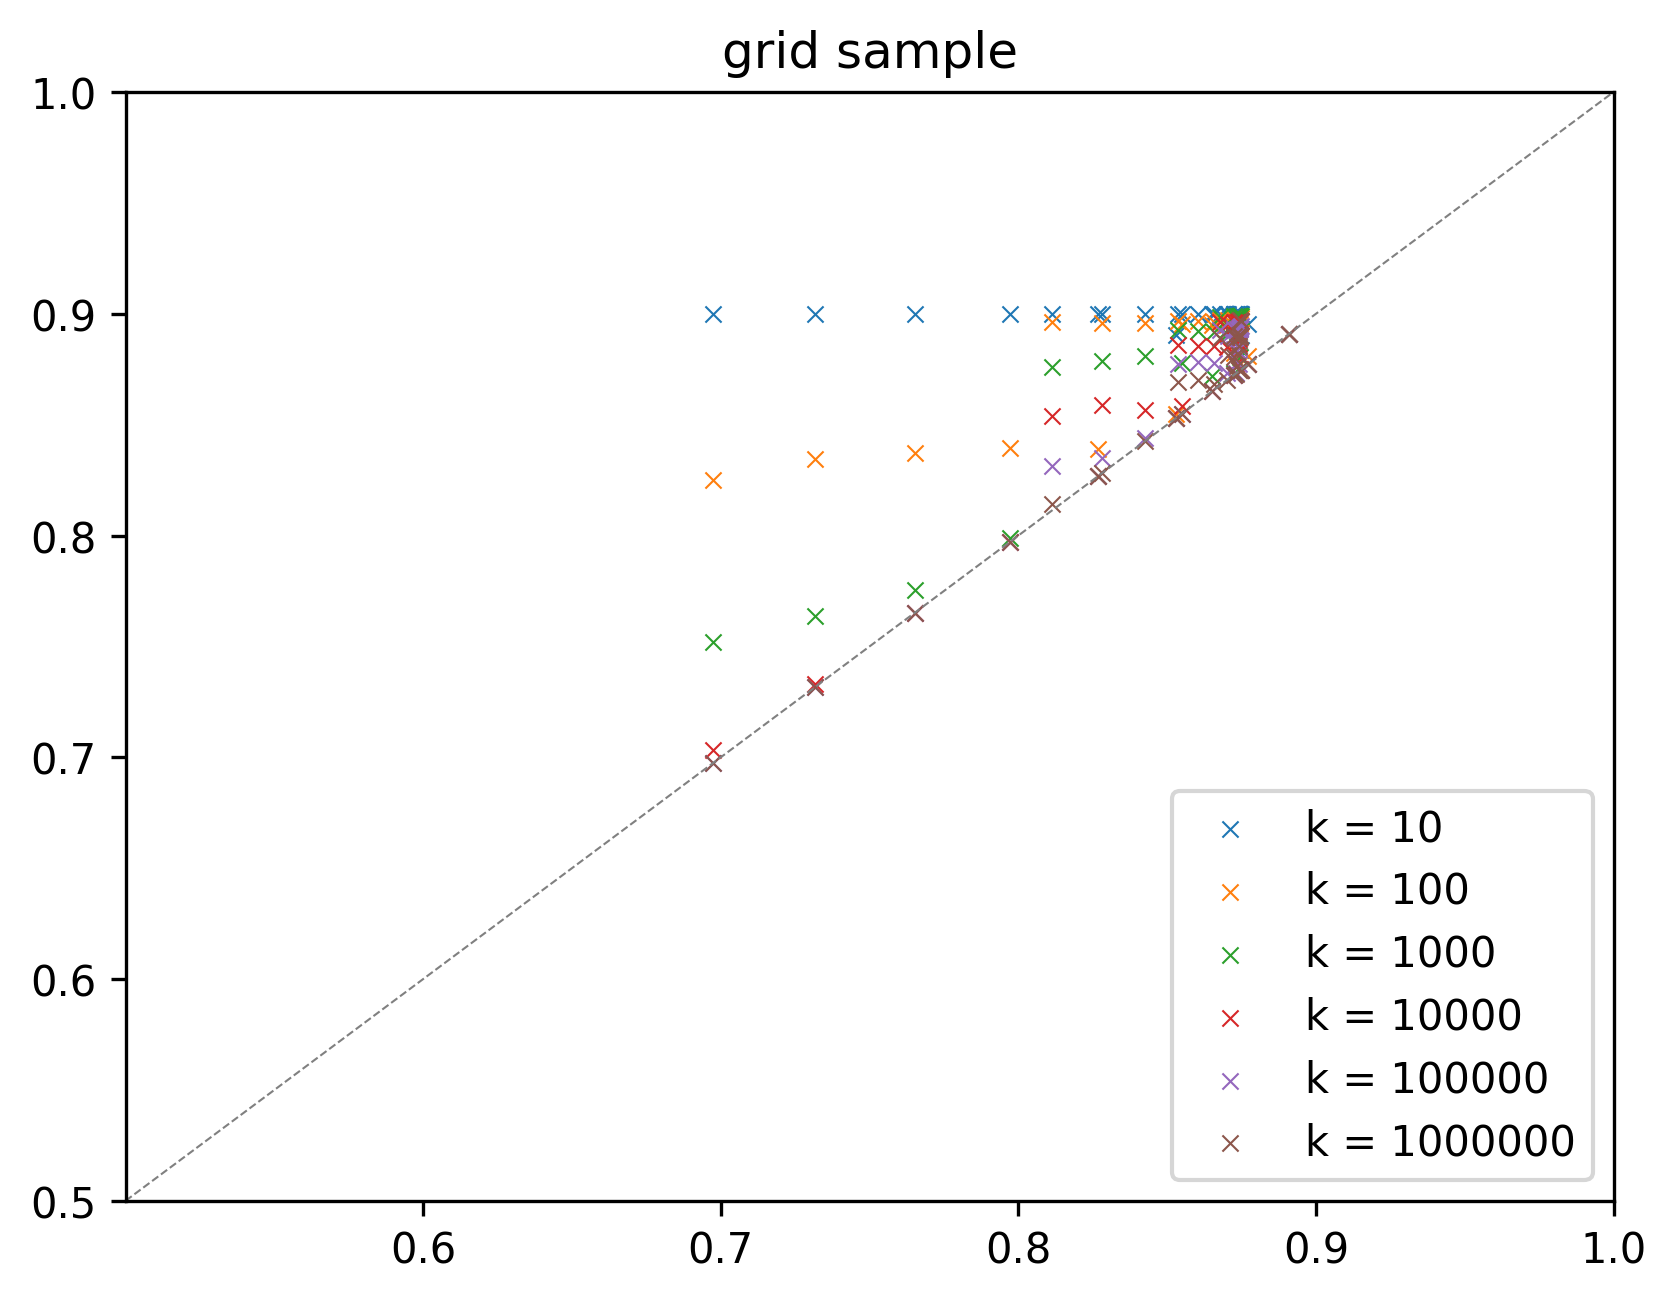
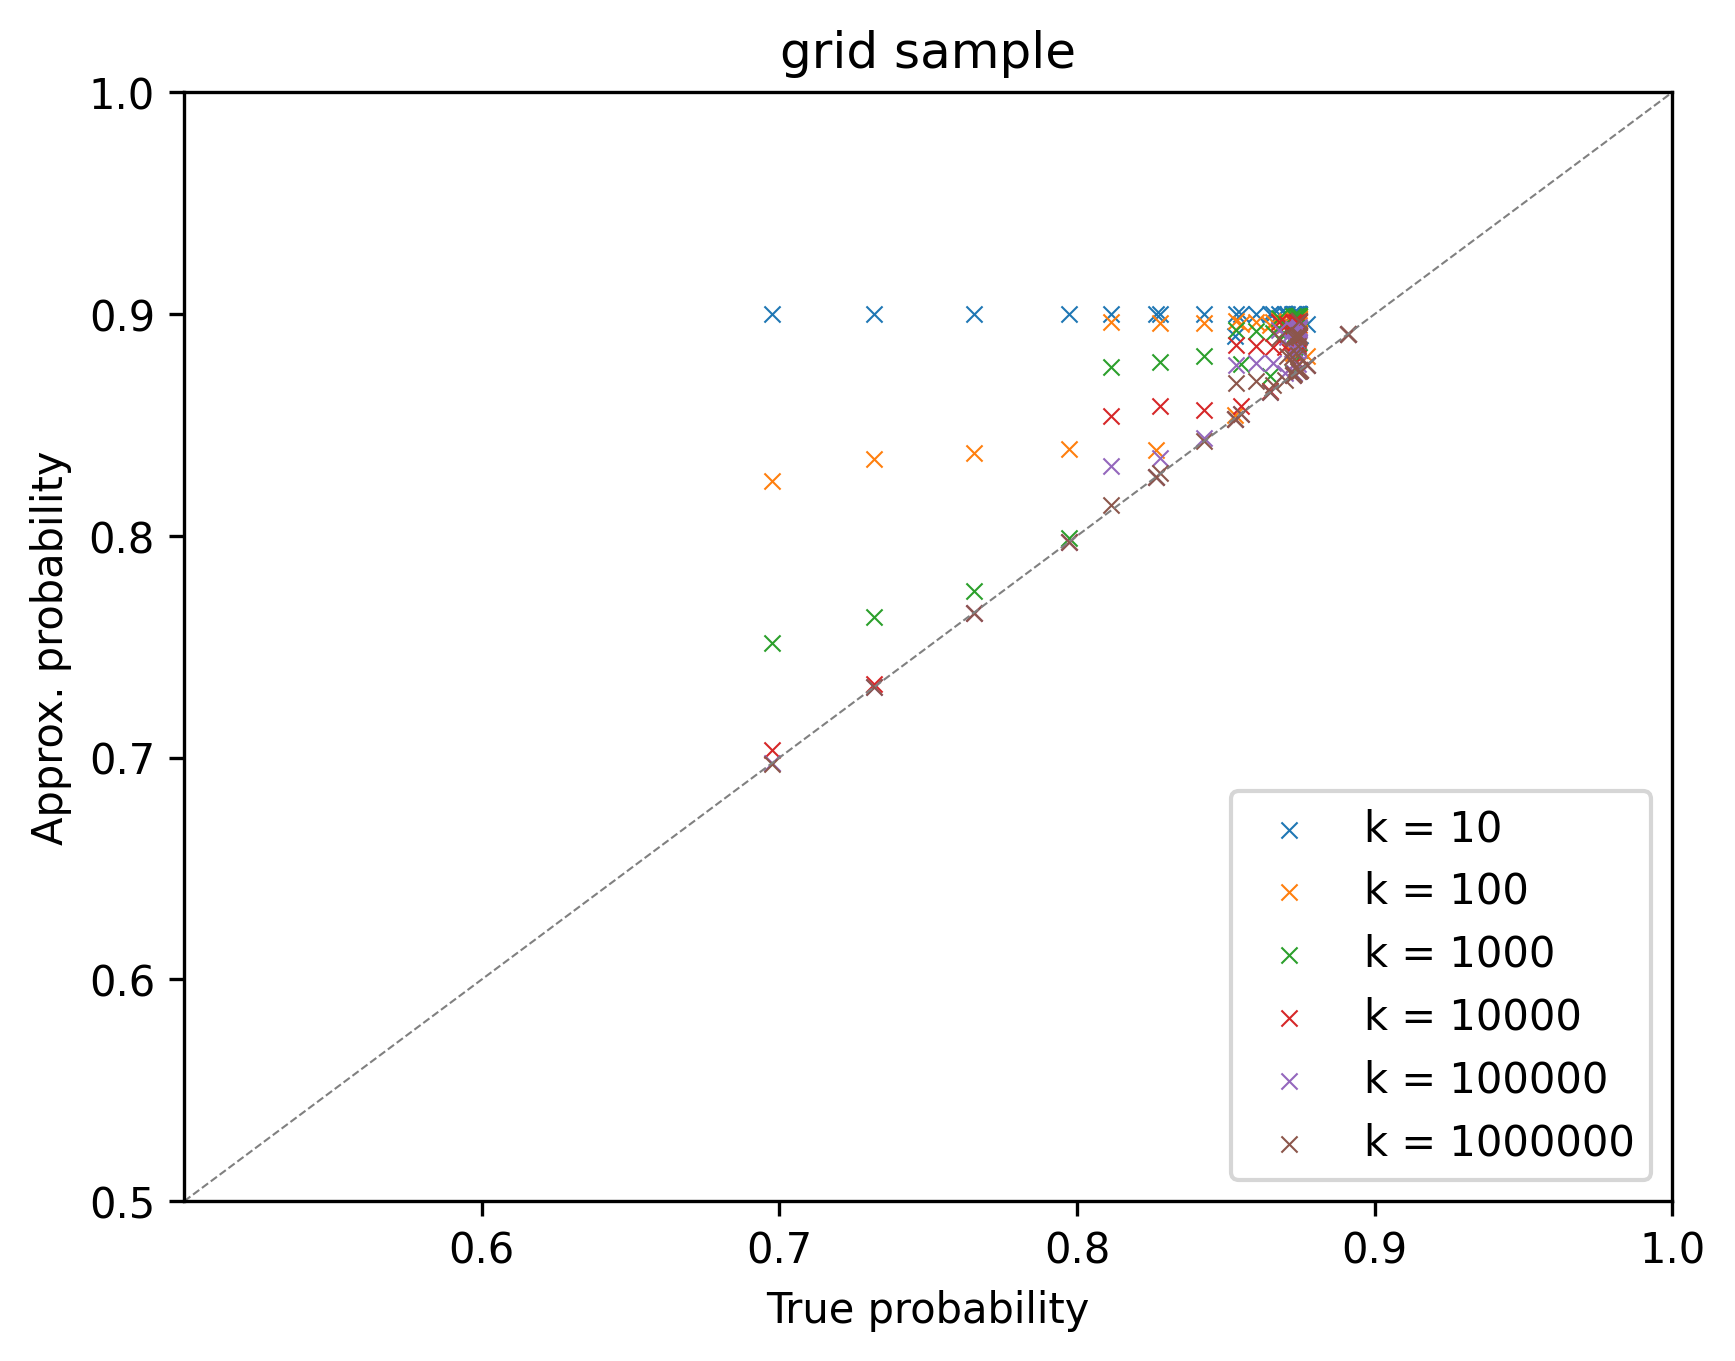
added az instances. added x-y title to grid sample plot

diff --git a/benchmarks/scripts/plot.py b/benchmarks/scripts/plot.py
@@ -437,6 +437,11 @@ if __name__ == "__main__":
         plt.ylim(bottom=0.5, top=1)
         plt.xticks([i * 0.1 for i in range(6, 11)])
         plt.legend(loc='lower right')
+
+        plt.xlabel(args.x)
+        # plt.xticks(rotation='horizontal')
+        plt.ylabel(args.y)
+
         plt.savefig(file_name_img, dpi=300, bbox_inches='tight')
         print("Saved {}".format(file_name_img))
         plt.clf()

diff --git a/benchmarks/dom/grid/azreasoners/generate_instances.py b/benchmarks/dom/grid/azreasoners/generate_instances.py
@@ -1,0 +1,7 @@
+if __name__ == '__main__':
+    for m in range(2, 10):
+        for n in range(2, m + 1):
+            encoding = f'm({m}). n({n}).'
+
+            with open(f'instances/grid_{m}_{n}.lp', 'w') as f:
+                f.write(encoding)
